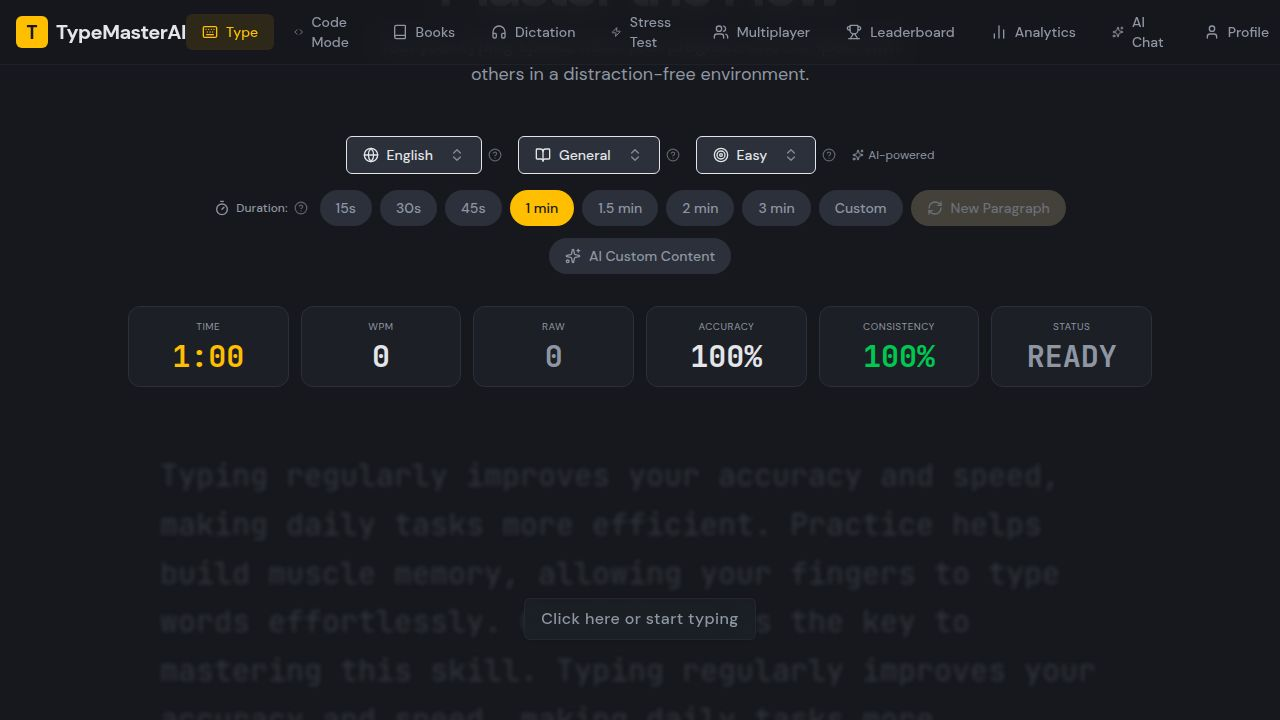
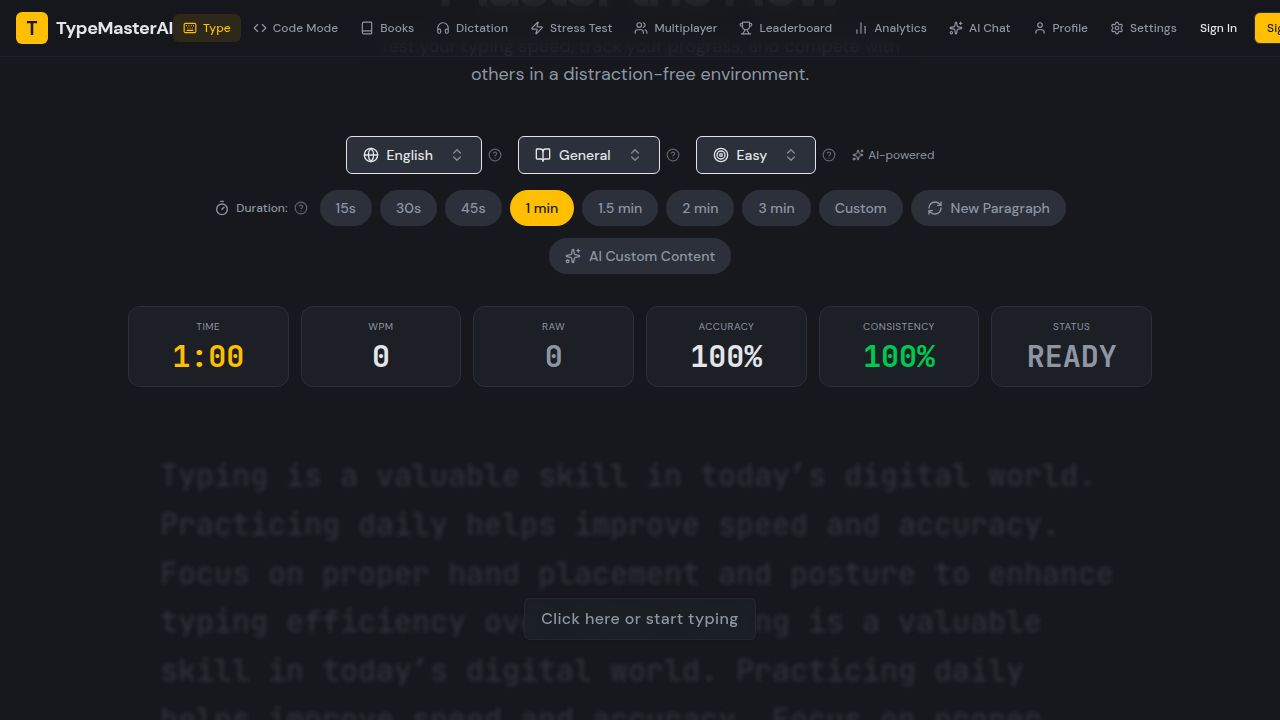
Improve site navigation by making it responsive and easier to use
Refactor the layout component to implement a responsive navigation system with a mobile-friendly hamburger menu and adjust header height.

Replit-Commit-Author: Agent
Replit-Commit-Session-Id: a8f68573-e7f3-488f-9f40-5f2f3da42fd3
Replit-Commit-Checkpoint-Type: full_checkpoint
Replit-Commit-Event-Id: 6c22083d-fc25-4c29-b556-37a4dc15cd1e
Replit-Commit-Screenshot-Url: https://storage.googleapis.com/screenshot-production-us-central1/0add726b-f077-4356-bf30-6c485b8e1ae7/a8f68573-e7f3-488f-9f40-5f2f3da42fd3/bFRGibU

Changed region(s): [[0.0, 0.0, 0.9062, 0.0917], [0.7188, 0.2444, 0.8438, 0.3056], [0.9375, 0.0, 1.0, 0.0611]]

diff --git a/client/src/components/layout.tsx b/client/src/components/layout.tsx
@@ -1,8 +1,9 @@
 import { Link, useLocation } from "wouter";
 import { cn } from "@/lib/utils";
-import { Keyboard, BarChart2, User, Settings, Trophy, LogOut, Sparkles, Github, Twitter, Mail, Globe, Zap, Shield, BookOpen, Users, Award, TrendingUp, Code, Book, Headphones, Star } from "lucide-react";
+import { Keyboard, BarChart2, User, Settings, Trophy, LogOut, Sparkles, Github, Twitter, Mail, Globe, Zap, Shield, BookOpen, Users, Award, TrendingUp, Code, Book, Headphones, Star, Menu, X } from "lucide-react";
 import { useAuth } from "@/lib/auth-context";
 import { useQuery } from "@tanstack/react-query";
+import { useState, useEffect } from "react";
 import { Button } from "@/components/ui/button";
 import {
   DropdownMenu,
@@ -15,10 +16,16 @@ import {
 import { Avatar, AvatarFallback } from "@/components/ui/avatar";
 import { Progress } from "@/components/ui/progress";
 import { Tooltip, TooltipContent, TooltipTrigger } from "@/components/ui/tooltip";
+import { Sheet, SheetContent, SheetHeader, SheetTitle, SheetTrigger } from "@/components/ui/sheet";
 
 export default function Layout({ children }: { children: React.ReactNode }) {
   const [location, setLocation] = useLocation();
   const { user, logout } = useAuth();
+  const [mobileMenuOpen, setMobileMenuOpen] = useState(false);
+
+  useEffect(() => {
+    setMobileMenuOpen(false);
+  }, [location]);
 
   const { data: gamificationData } = useQuery({
     queryKey: ["gamification"],
@@ -39,19 +46,24 @@ export default function Layout({ children }: { children: React.ReactNode }) {
   const xpInCurrentLevel = xp % 100;
   const xpProgress = (xpInCurrentLevel / 100) * 100;
 
-  const navItems = [
+  const primaryNavItems = [
     { href: "/", icon: Keyboard, label: "Type" },
     { href: "/code-mode", icon: Code, label: "Code Mode" },
     { href: "/books", icon: Book, label: "Books" },
     { href: "/dictation-mode", icon: Headphones, label: "Dictation" },
     { href: "/stress-test", icon: Zap, label: "Stress Test" },
     { href: "/multiplayer", icon: Users, label: "Multiplayer" },
+  ];
+
+  const secondaryNavItems = [
     { href: "/leaderboard", icon: Trophy, label: "Leaderboard" },
     { href: "/analytics", icon: BarChart2, label: "Analytics" },
     { href: "/chat", icon: Sparkles, label: "AI Chat" },
     { href: "/profile", icon: User, label: "Profile" },
     { href: "/settings", icon: Settings, label: "Settings" },
   ];
+
+  const allNavItems = [...primaryNavItems, ...secondaryNavItems];
 
   const handleLogout = async () => {
     await logout();
@@ -61,75 +73,80 @@ export default function Layout({ children }: { children: React.ReactNode }) {
   return (
     <div className="min-h-screen bg-background text-foreground font-sans selection:bg-primary selection:text-primary-foreground flex flex-col">
       <header className="fixed top-0 left-0 right-0 z-50 border-b border-border/40 bg-background/80 backdrop-blur-md">
-        <div className="container mx-auto px-4 h-16 flex items-center justify-between">
+        <div className="container mx-auto px-4 h-14 flex items-center justify-between">
           <div className="flex items-center gap-2">
             <div className="w-8 h-8 bg-primary rounded-md flex items-center justify-center text-primary-foreground font-mono font-bold text-xl">
               T
             </div>
-            <h1 className="text-xl font-bold tracking-tight">TypeMasterAI</h1>
+            <h1 className="text-lg font-bold tracking-tight hidden sm:block">TypeMasterAI</h1>
           </div>
 
-          <nav className="flex items-center gap-1">
-            {navItems.map((item) => {
+          <nav className="hidden xl:flex items-center gap-0.5">
+            {allNavItems.map((item) => {
               const Icon = item.icon;
               const isActive = location === item.href;
               return (
                 <Link key={item.href} href={item.href}>
                   <div
                     className={cn(
-                      "flex items-center gap-2 px-4 py-2 rounded-md transition-all duration-200 text-sm font-medium cursor-pointer",
+                      "flex items-center gap-1.5 px-2.5 py-1.5 rounded-md transition-all duration-200 text-xs font-medium cursor-pointer whitespace-nowrap",
                       isActive
                         ? "text-primary bg-primary/10"
                         : "text-muted-foreground hover:text-foreground hover:bg-accent"
                     )}
+                    data-testid={`nav-${item.label.toLowerCase().replace(/\s+/g, '-')}`}
                   >
-                    <Icon className="w-4 h-4" />
-                    <span className="hidden sm:inline">{item.label}</span>
+                    <Icon className="w-3.5 h-3.5" />
+                    <span>{item.label}</span>
                   </div>
                 </Link>
               );
             })}
+          </nav>
+
+          <div className="flex items-center gap-2">
+            {user && (
+              <Tooltip>
+                <TooltipTrigger asChild>
+                  <Link href="/profile">
+                    <div 
+                      className="hidden md:flex items-center gap-1.5 px-2 py-1 rounded-lg bg-gradient-to-r from-amber-500/10 to-orange-500/10 border border-amber-500/20 hover:border-amber-500/40 transition-all cursor-pointer"
+                      data-testid="xp-level-display"
+                    >
+                      <div className="flex items-center justify-center w-6 h-6 rounded-full bg-gradient-to-br from-amber-500 to-orange-500 text-white font-bold text-[10px] shadow-lg shadow-amber-500/25">
+                        {level}
+                      </div>
+                      <div className="flex flex-col gap-0.5 min-w-[60px]">
+                        <div className="flex items-center justify-between">
+                          <span className="text-[9px] font-semibold text-amber-500/90 uppercase tracking-wider">Lv {level}</span>
+                          <span className="text-[9px] font-mono text-muted-foreground">{xpInCurrentLevel}/100</span>
+                        </div>
+                        <Progress 
+                          value={xpProgress} 
+                          className="h-1 bg-amber-950/30 [&>div]:bg-gradient-to-r [&>div]:from-amber-500 [&>div]:to-orange-500"
+                          data-testid="xp-progress-bar"
+                        />
+                      </div>
+                    </div>
+                  </Link>
+                </TooltipTrigger>
+                <TooltipContent side="bottom" className="bg-card border-border">
+                  <div className="text-sm">
+                    <p className="font-semibold text-amber-500">Level {level}</p>
+                    <p className="text-muted-foreground">{xpInCurrentLevel} / 100 XP to next level</p>
+                    <p className="text-xs text-muted-foreground mt-1">Total: {xp} XP</p>
+                  </div>
+                </TooltipContent>
+              </Tooltip>
+            )}
 
             {user ? (
               <>
-                <Tooltip>
-                  <TooltipTrigger asChild>
-                    <Link href="/profile">
-                      <div 
-                        className="flex items-center gap-2 ml-3 px-3 py-1.5 rounded-lg bg-gradient-to-r from-amber-500/10 to-orange-500/10 border border-amber-500/20 hover:border-amber-500/40 transition-all cursor-pointer"
-                        data-testid="xp-level-display"
-                      >
-                        <div className="flex items-center justify-center w-7 h-7 rounded-full bg-gradient-to-br from-amber-500 to-orange-500 text-white font-bold text-xs shadow-lg shadow-amber-500/25">
-                          {level}
-                        </div>
-                        <div className="flex flex-col gap-0.5 min-w-[80px]">
-                          <div className="flex items-center justify-between">
-                            <span className="text-[10px] font-semibold text-amber-500/90 uppercase tracking-wider">Level {level}</span>
-                            <span className="text-[10px] font-mono text-muted-foreground">{xpInCurrentLevel}/{100}</span>
-                          </div>
-                          <Progress 
-                            value={xpProgress} 
-                            className="h-1.5 bg-amber-950/30 [&>div]:bg-gradient-to-r [&>div]:from-amber-500 [&>div]:to-orange-500"
-                            data-testid="xp-progress-bar"
-                          />
-                        </div>
-                        <Star className="w-3.5 h-3.5 text-amber-500 ml-0.5" />
-                      </div>
-                    </Link>
-                  </TooltipTrigger>
-                  <TooltipContent side="bottom" className="bg-card border-border">
-                    <div className="text-sm">
-                      <p className="font-semibold text-amber-500">Level {level}</p>
-                      <p className="text-muted-foreground">{xpInCurrentLevel} / 100 XP to next level</p>
-                      <p className="text-xs text-muted-foreground mt-1">Total: {xp} XP</p>
-                    </div>
-                  </TooltipContent>
-                </Tooltip>
                 <DropdownMenu>
                   <DropdownMenuTrigger asChild>
-                    <Button variant="ghost" className="ml-2 h-10 w-10 rounded-full p-0">
-                      <Avatar className="h-10 w-10">
-                        <AvatarFallback className="bg-primary text-primary-foreground">
+                    <Button variant="ghost" className="h-8 w-8 rounded-full p-0">
+                      <Avatar className="h-8 w-8">
+                        <AvatarFallback className="bg-primary text-primary-foreground text-sm">
                           {user.username[0].toUpperCase()}
                         </AvatarFallback>
                       </Avatar>
@@ -151,24 +168,124 @@ export default function Layout({ children }: { children: React.ReactNode }) {
                 </DropdownMenu>
               </>
             ) : (
-              <div className="flex items-center gap-2 ml-2">
+              <div className="hidden sm:flex items-center gap-1">
                 <Link href="/login">
-                  <Button variant="ghost" size="sm" data-testid="button-nav-login">
+                  <Button variant="ghost" size="sm" className="text-xs h-8" data-testid="button-nav-login">
                     Sign In
                   </Button>
                 </Link>
                 <Link href="/register">
-                  <Button size="sm" data-testid="button-nav-register">
+                  <Button size="sm" className="text-xs h-8" data-testid="button-nav-register">
                     Sign Up
                   </Button>
                 </Link>
               </div>
             )}
-          </nav>
+
+            <Sheet open={mobileMenuOpen} onOpenChange={setMobileMenuOpen}>
+              <SheetTrigger asChild>
+                <Button variant="ghost" size="sm" className="xl:hidden h-8 w-8 p-0" data-testid="button-mobile-menu">
+                  <Menu className="h-5 w-5" />
+                </Button>
+              </SheetTrigger>
+              <SheetContent side="right" className="w-72 p-0">
+                <SheetHeader className="p-4 border-b">
+                  <SheetTitle className="flex items-center gap-2">
+                    <div className="w-7 h-7 bg-primary rounded-md flex items-center justify-center text-primary-foreground font-mono font-bold text-lg">
+                      T
+                    </div>
+                    TypeMasterAI
+                  </SheetTitle>
+                </SheetHeader>
+                
+                {user && (
+                  <div className="p-4 border-b">
+                    <Link href="/profile" onClick={() => setMobileMenuOpen(false)}>
+                      <div 
+                        className="flex items-center gap-3 p-3 rounded-lg bg-gradient-to-r from-amber-500/10 to-orange-500/10 border border-amber-500/20"
+                      >
+                        <div className="flex items-center justify-center w-10 h-10 rounded-full bg-gradient-to-br from-amber-500 to-orange-500 text-white font-bold text-sm shadow-lg shadow-amber-500/25">
+                          {level}
+                        </div>
+                        <div className="flex-1">
+                          <div className="flex items-center justify-between mb-1">
+                            <span className="text-xs font-semibold text-amber-500/90">Level {level}</span>
+                            <span className="text-xs font-mono text-muted-foreground">{xpInCurrentLevel}/100 XP</span>
+                          </div>
+                          <Progress 
+                            value={xpProgress} 
+                            className="h-2 bg-amber-950/30 [&>div]:bg-gradient-to-r [&>div]:from-amber-500 [&>div]:to-orange-500"
+                          />
+                        </div>
+                      </div>
+                    </Link>
+                  </div>
+                )}
+
+                <div className="p-2 overflow-y-auto max-h-[calc(100vh-200px)]">
+                  <div className="space-y-1">
+                    {allNavItems.map((item) => {
+                      const Icon = item.icon;
+                      const isActive = location === item.href;
+                      return (
+                        <Link key={item.href} href={item.href}>
+                          <div
+                            onClick={() => setMobileMenuOpen(false)}
+                            className={cn(
+                              "flex items-center gap-3 px-3 py-2.5 rounded-lg transition-all duration-200 text-sm font-medium cursor-pointer",
+                              isActive
+                                ? "text-primary bg-primary/10"
+                                : "text-muted-foreground hover:text-foreground hover:bg-accent"
+                            )}
+                            data-testid={`mobile-nav-${item.label.toLowerCase().replace(/\s+/g, '-')}`}
+                          >
+                            <Icon className="w-4 h-4" />
+                            <span>{item.label}</span>
+                          </div>
+                        </Link>
+                      );
+                    })}
+                  </div>
+                  
+                  {!user && (
+                    <div className="mt-4 pt-4 border-t space-y-2">
+                      <Link href="/login">
+                        <Button variant="outline" className="w-full" onClick={() => setMobileMenuOpen(false)} data-testid="mobile-button-login">
+                          Sign In
+                        </Button>
+                      </Link>
+                      <Link href="/register">
+                        <Button className="w-full" onClick={() => setMobileMenuOpen(false)} data-testid="mobile-button-register">
+                          Sign Up
+                        </Button>
+                      </Link>
+                    </div>
+                  )}
+                  
+                  {user && (
+                    <div className="mt-4 pt-4 border-t">
+                      <Button 
+                        variant="ghost" 
+                        className="w-full justify-start text-destructive hover:text-destructive hover:bg-destructive/10"
+                        onClick={() => {
+                          handleLogout();
+                          setMobileMenuOpen(false);
+                        }}
+                        data-testid="mobile-button-logout"
+                      >
+                        <LogOut className="w-4 h-4 mr-2" />
+                        Logout
+                      </Button>
+                    </div>
+                  )}
+                </div>
+              </SheetContent>
+            </Sheet>
+          </div>
         </div>
       </header>
 
-      <main className="flex-1 pt-24 pb-12 container mx-auto px-4">
+      <main className="flex-1 pt-20 pb-12 container mx-auto px-4">
         {children}
       </main>
 
